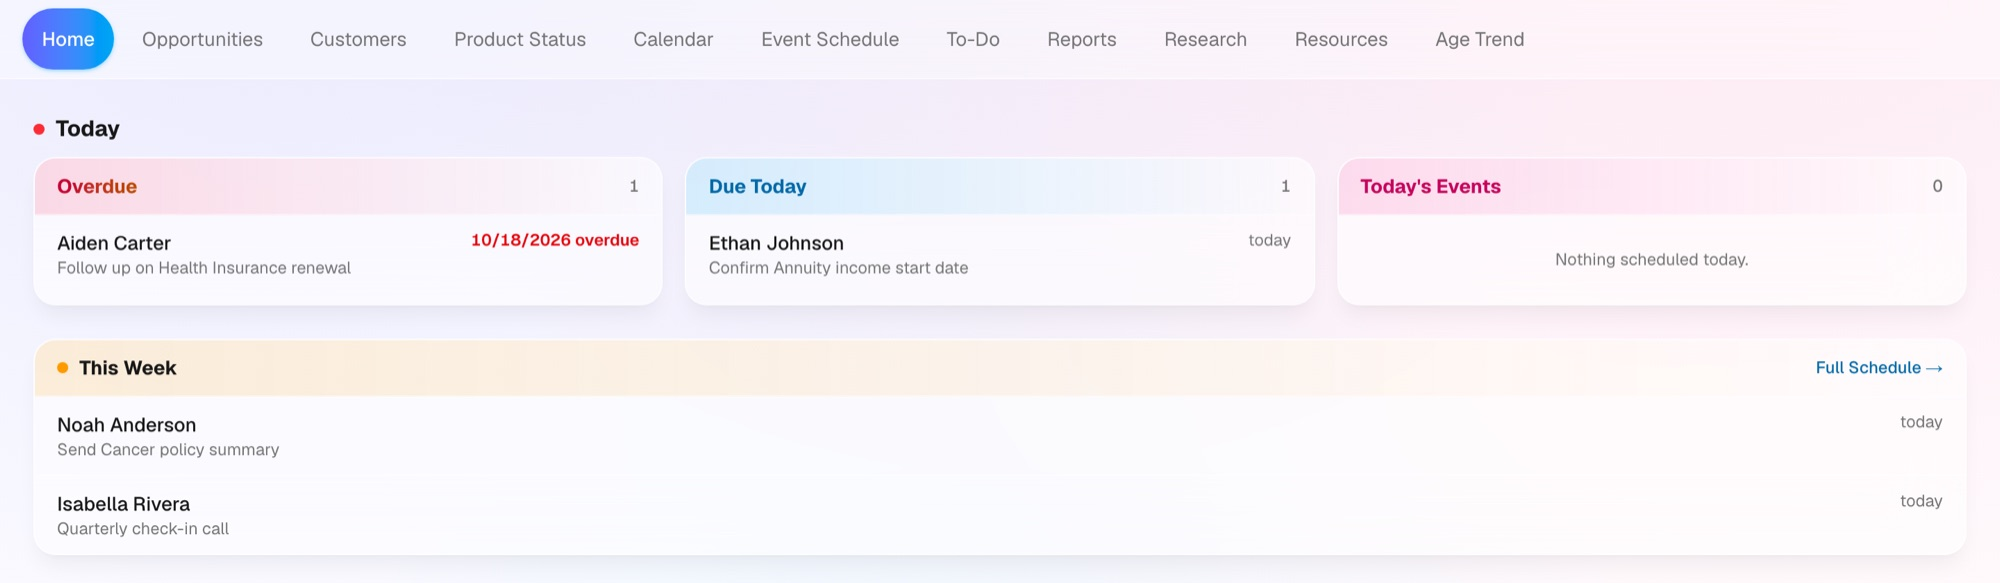
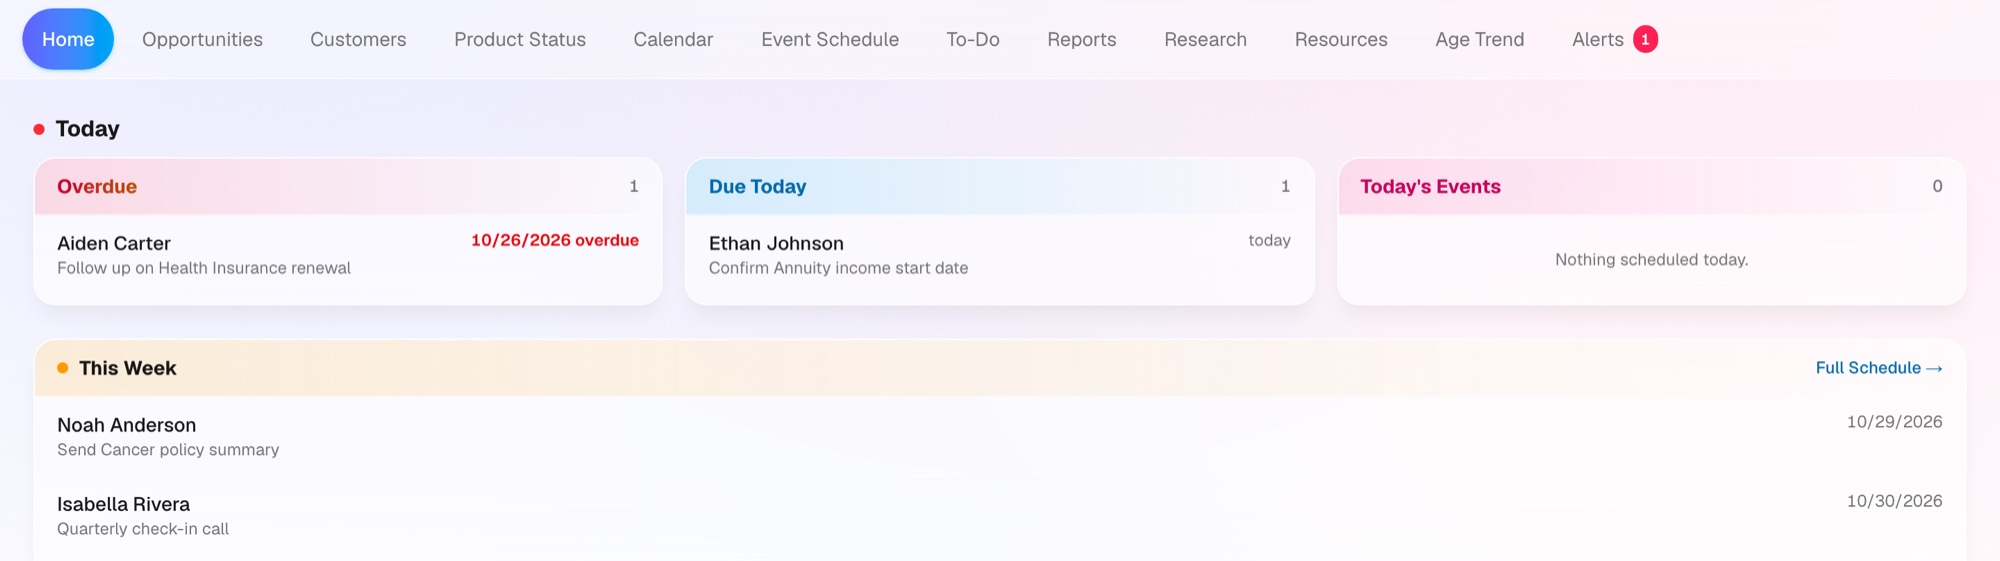
The desktop screenshot is the English edition, with the Alerts tab

diff --git a/index.html b/index.html
@@ -595,8 +595,8 @@
           <div class="hero-shots">
             <div class="shot">
               <div class="shot-bar" aria-hidden="true"><span></span><span></span><span></span></div>
-              <img src="assets/product/home.jpg" width="2000" height="583"
-                   alt="The CRM's Today screen: an overdue health-insurance renewal follow-up, an annuity task due today, and this week's follow-ups" />
+              <img src="assets/product/home.jpg" width="2000" height="561"
+                   alt="The CRM's Today screen: an overdue health-insurance renewal follow-up, an annuity task due today, this week's follow-ups, and the Alerts tab with one new alert" />
             </div>
             <div class="shot-phone">
               <img src="assets/product/mobile.jpg" width="724" height="1300"
